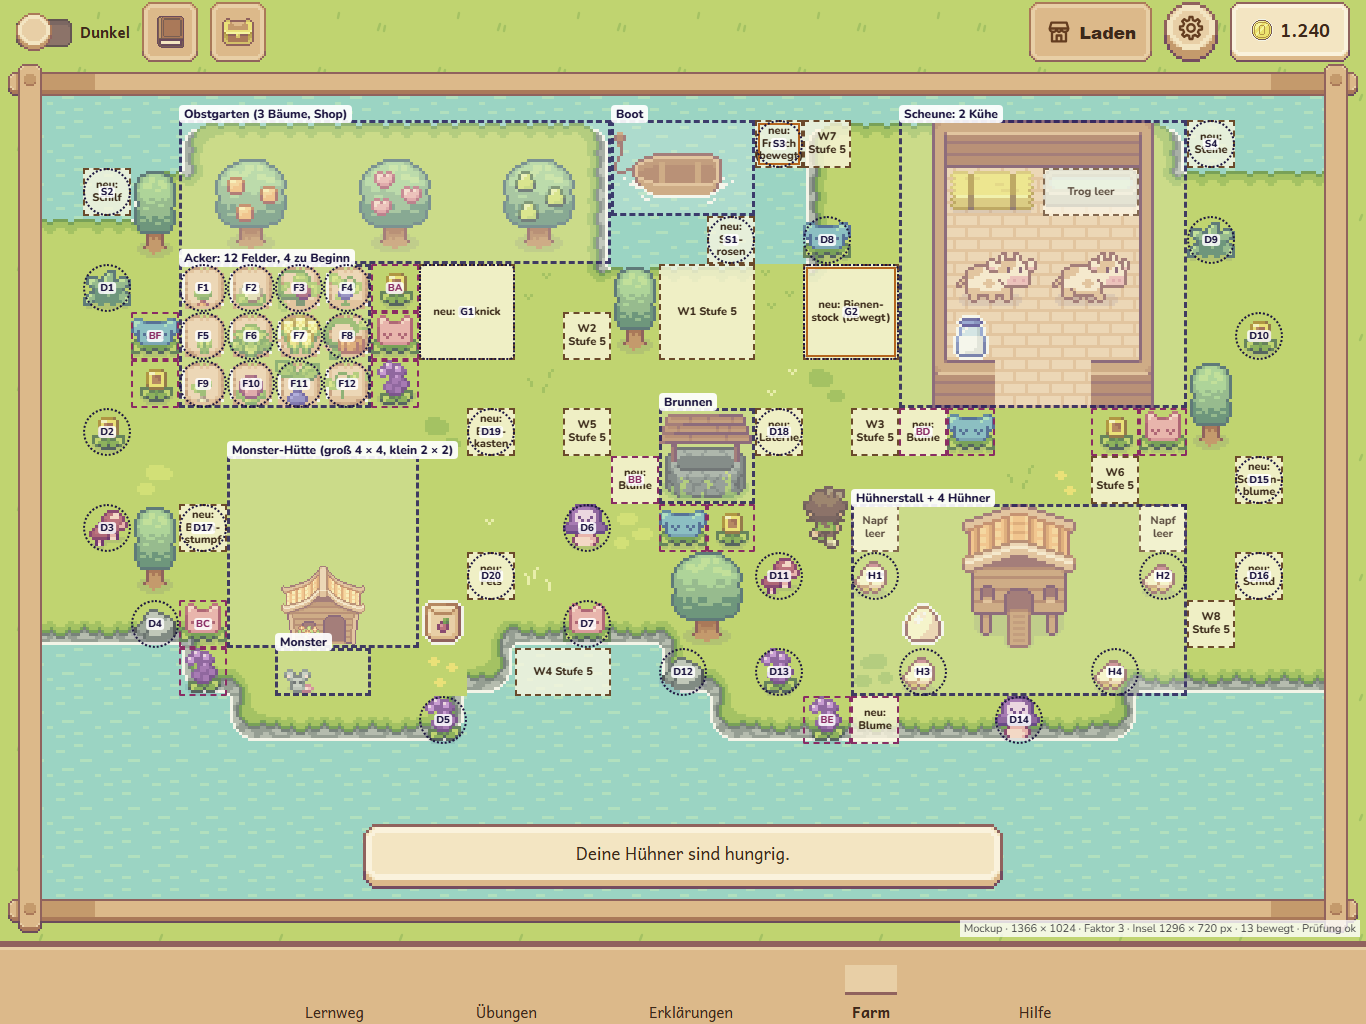
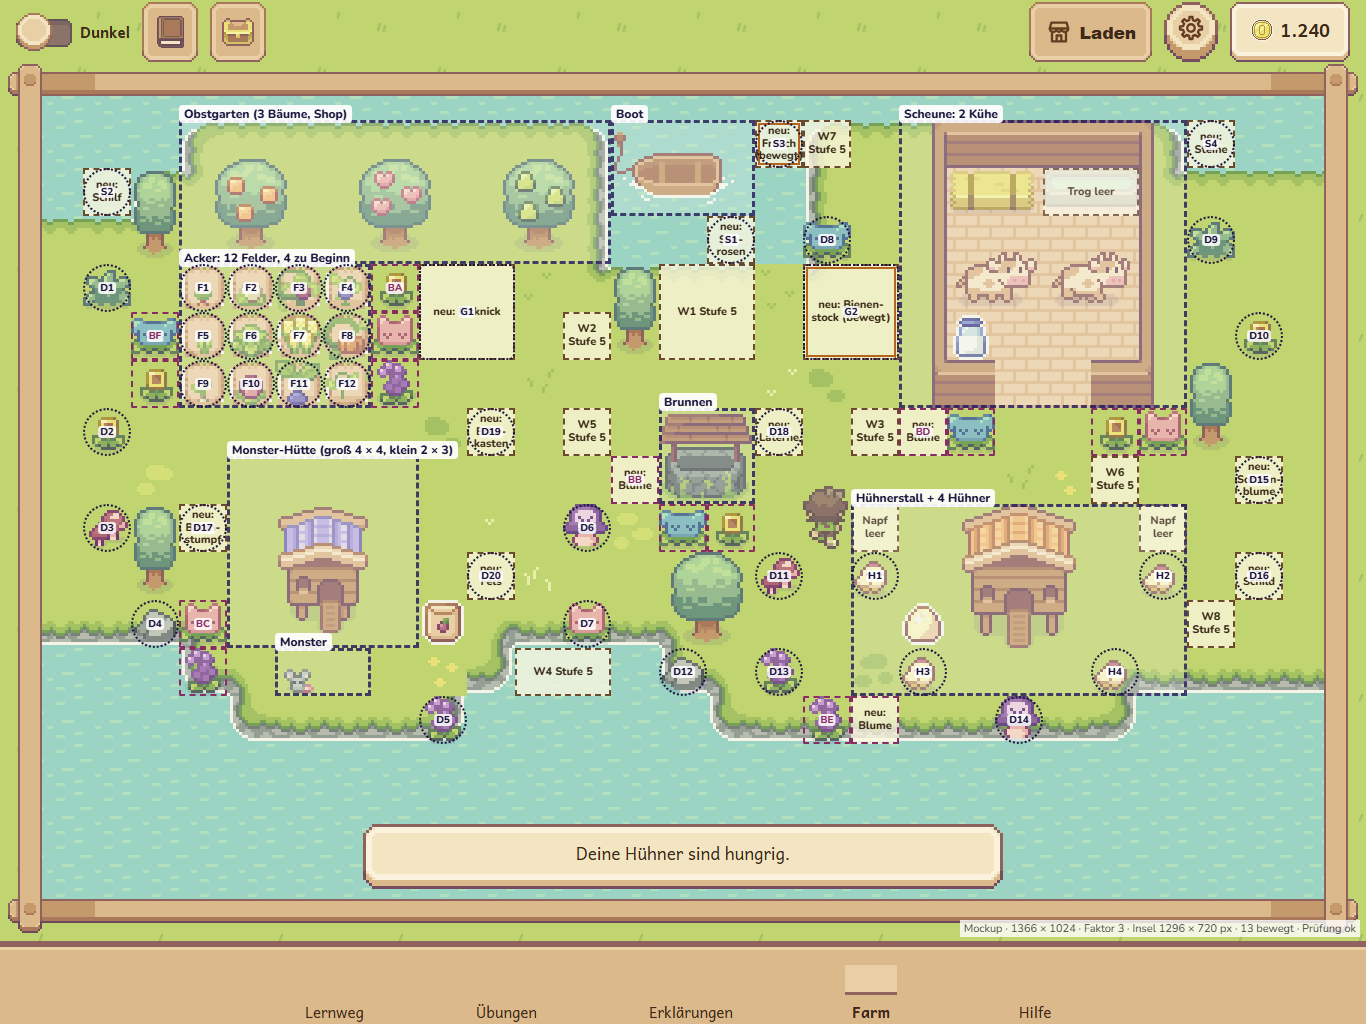
Farm-Mockup: kleiner Hühnerstall mit einem Fenster als kleine Monster-Hütte

Changed region(s): [[0.1845, 0.5, 0.2767, 0.625]]

diff --git a/docs/farm/farm-mockup.js b/docs/farm/farm-mockup.js
@@ -39,9 +39,10 @@ const KUEHE = [{ x: 19, y: 3 }, { x: 21, y: 3 }] // je 2 × 2, höchstens 2 (Jaz
 const STALL = { x: 19, y: 9 } // 3 × 3
 const HUEHNER = [{ x: 17, y: 10 }, { x: 23, y: 10 }, { x: 18, y: 12 }, { x: 22, y: 12 }]
 // Jazz 2026-11-17: Hütte weiter oben, der Eingang zeigt nicht mehr aufs Wasser. Platz 4 × 4 für die große Hütte (heutiges Bild);
-// kleine Monster (Gespenst, Spinnen, Maus) bekommen eine kleine Hütte 2 × 2 unten mittig auf diesem Platz (neue Grafik)
+// kleine Monster (Gespenst, Spinnen, Maus) bekommen eine kleine Hütte 2 × 3 unten mittig auf diesem Platz:
+// Jazz 2026-11-17: der kleine Hühnerstall mit einem Fenster aus dem Premium-Paket (Chikcen_Houses.png, 6 Dachfarben)
 const HUETTE = { x: 4, y: 8 }
-const HUETTE_KLEIN = { x: 5, y: 10 }
+const HUETTE_KLEIN = { x: 5, y: 9 }
 // Jazz 2026-11-17: Monster läuft nie ins Wasser. Laufweg vor der Tür; links, rechts und darunter ist Gras (Prüfung unten)
 const MONSTER = { x: 5, y: 12 }
 const BRUNNEN = { x: 13, y: 7 } // 2 × 2
@@ -199,7 +200,7 @@ async function zeichnen() {
     zone('Acker: 12 Felder, 4 zu Beginn', 3, 4, 4, 3)
     zone('Scheune: 2 Kühe', SCHEUNE.x, SCHEUNE.y, SCHEUNE.b, SCHEUNE.h)
     zone('Hühnerstall + 4 Hühner', 17, 9, 7, 4)
-    zone('Monster-Hütte (groß 4 × 4, klein 2 × 2)', HUETTE.x, HUETTE.y, 4, 4)
+    zone('Monster-Hütte (groß 4 × 4, klein 2 × 3)', HUETTE.x, HUETTE.y, 4, 4)
     zone('Monster', MONSTER.x, MONSTER.y, 2, 1)
     zone('Boot', BOOT.x, BOOT.y, 3, 2)
     zone('Brunnen', BRUNNEN.x, BRUNNEN.y, 2, 2)
@@ -249,8 +250,10 @@ function volleFarm(p, setze, platzhalter) {
   platzhalter('Napf leer', 23, 9, 1, 1)
   platzhalter('Trog leer', 21, 2, 2, 1)
   // Monster (Maus) vor seiner Hütte (Dach Nr. 3), läuft hin und her; sein Geschenk liegt daneben und hüpft
-  // Die Maus ist ein kleines Monster: kleine Hütte (im Mockup das heutige Bild halb so groß, im Spiel eine neue Grafik 32 × 32)
-  ding(sprite('huette', 64, 64, 192, 192, 3, m / 2), HUETTE_KLEIN.x, HUETTE_KLEIN.y, 2, 2)
+  // Die Maus ist ein kleines Monster: kleiner Hühnerstall (32 × 48, lila Dach) als Hütte.
+  // shortcut: liest das Bild direkt aus dem Paketordner assets/ (nicht im Repo, nur auf dem Rechner der Lehrkraft); im Spiel käme es nach src/grafik/
+  const KLEIN = '../../assets/entpackt/Sprout Lands - Sprites - premium pack/Tilesets/Building parts/Animal Structures/Chikcen_Houses.png'
+  ding(`<div class="sprite" style="width:${32 * m}px;height:${48 * m}px;background:url('${KLEIN}') -${224 * m}px -${128 * m}px/${384 * m}px ${176 * m}px"></div>`, HUETTE_KLEIN.x, HUETTE_KLEIN.y, 2, 3)
   ding(sprite('monster_maus', 16, 16, 208, 16, 0, m, 'laufen'), MONSTER.x, MONSTER.y, 1, 1, true)
   // Liegendes hüpft: Ei, Milch, Monster-Geschenk (Samentüte)
   ding(sprite('ei', 16, 16, 16, 16, 0, m, 'huepfen'), 18, 11, 1, 1, true)

diff --git a/docs/farm/layout-leer.md b/docs/farm/layout-leer.md
@@ -66,7 +66,7 @@ So ist gerechnet:
 | **Obstgarten** | links oben (y 1 bis 3) | 3 Obstbäume: Orange, Pfirsich, Birne | über dem Acker bzw. vor dem Stall | jetzt alle drei nebeneinander |
 | **Scheune** | rechts oben (x 18 bis 23, y 1 bis 6) | **2 Kühe** | 4 Kühe | Jazz: höchstens 2 |
 | **Hühnerstall** | rechts unten (Stall bei x 19, y 9) | **4 Hühner** rund um den Stall | 4 | je mit freier Kachel dazwischen |
-| **Monster-Hütte** | links, unter dem Acker (Platz x 4 bis 7, y 8 bis 11) | Hütte und Laufweg des Monsters vor der Tür (x 5 bis 6, y 12) | links unten am Ufer | **Weiter oben, der Eingang zeigt nicht aufs Wasser** (Jazz). **Das Monster läuft nie ins Wasser:** links und rechts vom Laufweg und darunter liegt Gras; das Mockup prüft das. **Zwei Größen:** große Monster (Rübchen, Schleime, Fledermaus) wohnen in der heutigen Hütte (4 × 4); kleine Monster (Gespenst, Spinnen, Maus) bekommen eine **kleine Hütte 2 × 2** unten mittig auf dem Platz. Die kleine Hütte ist eine neue Grafik (32 × 32, in den 9 Dachfarben); im Paket gibt es die Hütte nur in einer Größe. |
+| **Monster-Hütte** | links, unter dem Acker (Platz x 4 bis 7, y 8 bis 11) | Hütte und Laufweg des Monsters vor der Tür (x 5 bis 6, y 12) | links unten am Ufer | **Weiter oben, der Eingang zeigt nicht aufs Wasser** (Jazz). **Das Monster läuft nie ins Wasser:** links und rechts vom Laufweg und darunter liegt Gras; das Mockup prüft das. **Zwei Größen:** große Monster (Rübchen, Schleime, Fledermaus) wohnen in der heutigen Hütte (4 × 4); kleine Monster (Gespenst, Spinnen, Maus) bekommen eine **kleine Hütte 2 × 3** unten mittig auf dem Platz: den **kleinen Hühnerstall mit einem Fenster** aus dem Premium-Paket (`Chikcen_Houses.png`, 32 × 48, 6 Dachfarben; Jazz). Keine neue Grafik nötig. |
 | **Brunnen** | Mitte (x 13 bis 14, y 7 bis 8) | 1 | Mitte | |
 | **Boot** | Bucht oben Mitte (x 12 bis 14, y 1 bis 2) | 1 (im Wasser) | Bucht oben | |
 | **Deko klein** (1 × 1) | verstreut: am Rand, beim Baum, am Brunnen, am Hofweg, am Ufer | **20 Plätze** D1 bis D20 | 18 | Steine, Pilze, Schilder, Baumstumpf, Laterne, Briefkasten und Ähnliches. Bewusst nicht in Reihen (Jazz). |
@@ -177,7 +177,7 @@ Preise und Freischaltung folgen in Teilaufgabe 5, die genaue Auswahl in Teilaufg
 | E5 | Shop-Knopf auf der Farm | Der Knopf **ersetzt** den Menüpunkt Shop unten. Das Buch im Sammelalbum-Knopf wird kleiner. |
 | E6 | Monster | läuft nie ins Wasser (Laufweg vor der Hütte, ringsum Gras) |
 | E7 | Überschrift „Meine Farm“ | entfällt auf der Farm |
-| E10 | Monster-Hütte | weiter oben, Eingang nicht am Wasser; kleine Hütte (2 × 2, neue Grafik) für Gespenst, Spinnen und Maus |
+| E10 | Monster-Hütte | weiter oben, Eingang nicht am Wasser; kleine Hütte für Gespenst, Spinnen und Maus: kleiner Hühnerstall mit einem Fenster (2 × 3, aus dem Premium-Paket) |
 | E9 | Deko-Verteilung und Blumen | Baumstumpf, Laterne, Briefkasten, Fels verstreut statt in einer Reihe; 6 Blumenbeete mit 16 Plätzen; mehr Blumen im Shop |
 | E8 | Wasser-Platz S2 lag unten im Meldungsfeld | Wasser-Plätze nur noch oben; unter der Insel liegt nichts Antippbares im Wasser (Prüfung im Mockup) |
 

diff --git a/docs/farm/layout-voll.md b/docs/farm/layout-voll.md
@@ -28,7 +28,7 @@ Die Karte und die Plätze stammen aus Teilaufgabe 2 (`layout-leer.md`). Hier ist
 | Obstgarten | 3 Obstbäume mit Früchten |
 | Scheune | 2 Kühe, davon eine hungrig (Trog leer), daneben 1 Flasche Milch zum Einsammeln |
 | Hühnerstall | 4 Hühner, 2 davon hungrig (Napf leer), 1 Ei zum Einsammeln |
-| Monster | Maus (kleines Monster) mit kleiner Hütte (im Mockup die heutige Hütte halb so groß), Monster vor der Tür, sein Geschenk (Samentüte) liegt daneben |
+| Monster | Maus (kleines Monster) mit kleiner Hütte (kleiner Hühnerstall mit lila Dach), Monster vor der Tür, sein Geschenk (Samentüte) liegt daneben |
 | Brunnen, Boot | beide gekauft |
 | Blumenbeete (6 Beete, 16 Plätze) | alle bepflanzt, gemischt aus heutigen Blumen-Bildern und neuen Blumen (Platzhalter) |
 | Deko klein (20) | 14 mit heutigen Bildern, 6 mit neuen Bildern aus den Paketen (im Mockup als Platzhalter) |

diff --git a/docs/umbau/STATUS.md b/docs/umbau/STATUS.md
@@ -558,5 +558,6 @@ Sechs Teilaufgaben (1 Analyse, 2 Layout leer, 3 Layout voll, 4 Dekorationen, 5 M
   6 Blumenbeete mit 16 Plätzen (Blumen eines Beets dicht, Auswahl je Beet), Blumen-Vorschläge aus den Paketen in `layout-leer.md` Abschnitt 8.
   Selbstprüfung in allen Größen ok.
 - **Nachtrag Jazz:** Monster-Hütte weiter oben (Platz 4 × 4 bei x 4, y 8; Eingang nicht mehr am Wasser, Laufweg vor der Tür auf Gras);
-  kleine Monster (Gespenst, Spinnen, Maus) bekommen eine kleine Hütte 2 × 2 (neue Grafik, das Paket hat nur eine Größe).
+  kleine Monster (Gespenst, Spinnen, Maus) bekommen eine kleine Hütte: den kleinen Hühnerstall mit einem Fenster
+  (Premium `Chikcen_Houses.png`, 32 × 48, 2 × 3 Kacheln, 6 Dachfarben; Jazz), keine neue Grafik.
 - **Nächster Schritt:** Teilaufgabe 4 (Dekorationskonzept).
